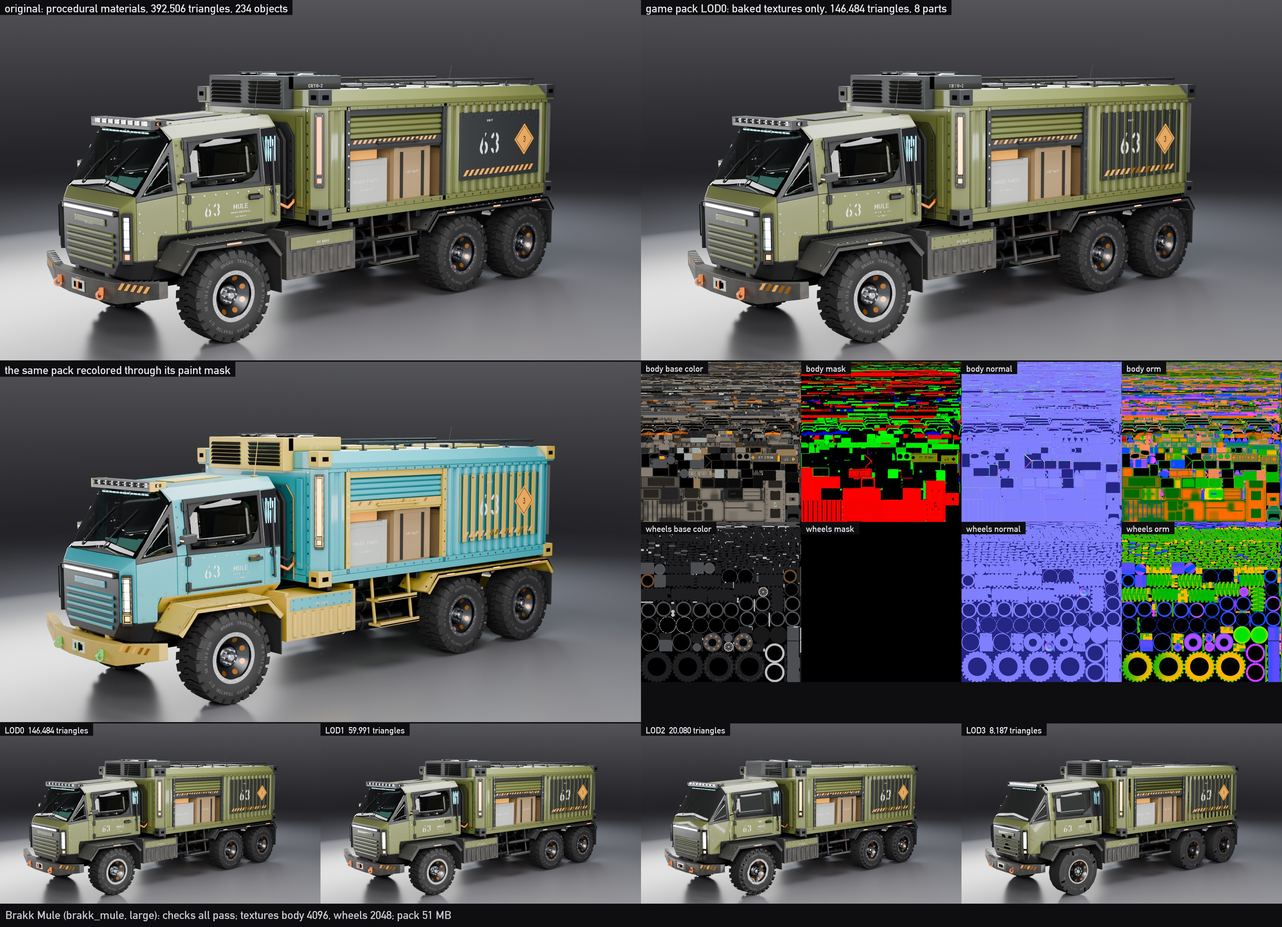
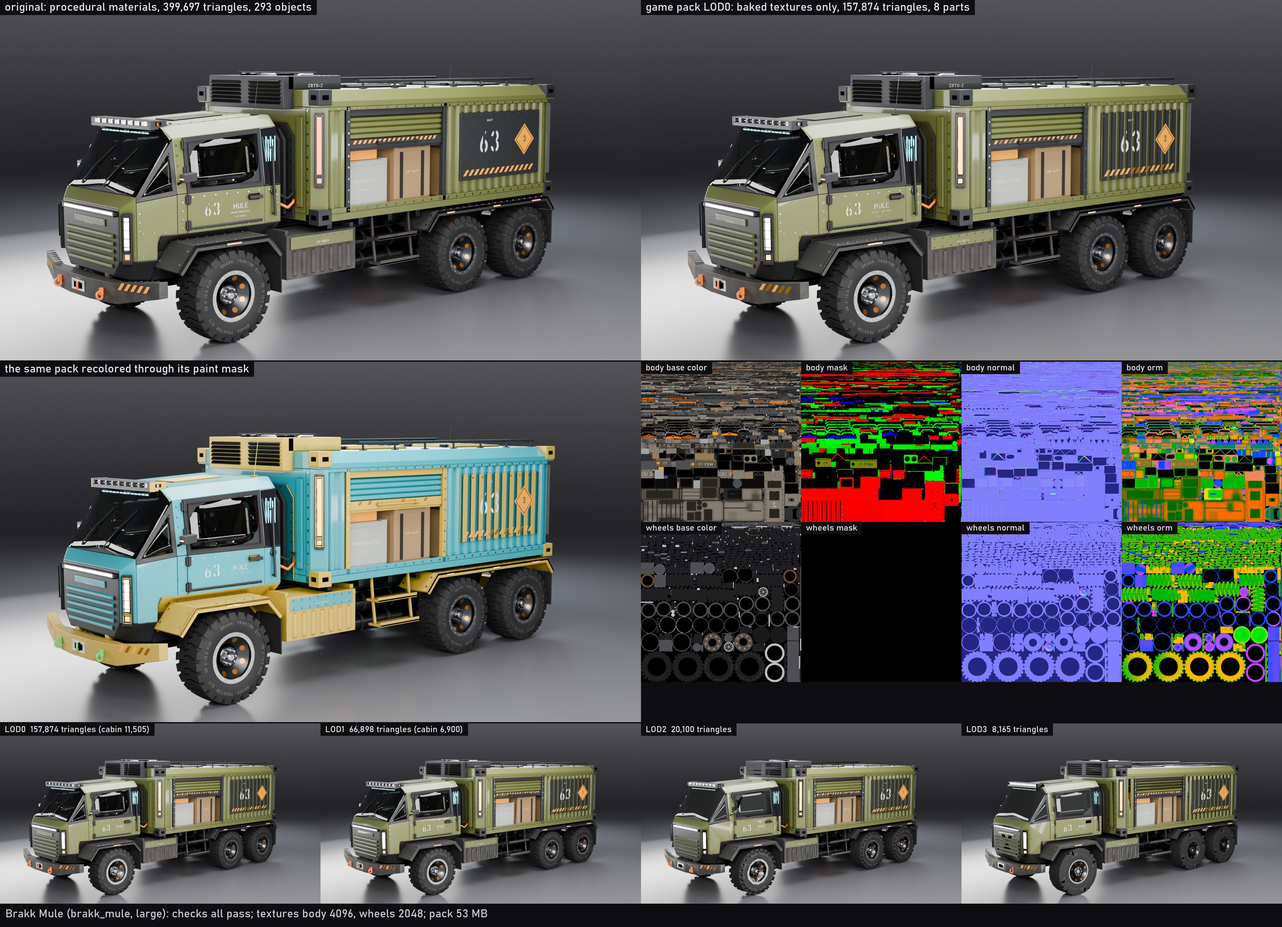
AG18: game packs with cabins: far LODs retried, large from 50 m2, cabin texels yield
- A far LOD over its budget by more than 10% is made again at a target scaled down by
  its overshoot, twice at most (the Orrin Lumen's LOD3 at 5,517 of 5,000; the Kestrel
  Meridian's 5,541 made again at 4,992); far LODs pass within 10%.
- The large class starts at 50 m2 of exterior (55 before): a cabin hides faces seen through
  the glass that counted as exterior, and the Brakk Bastion fell from 57.1 to 54.9 m2.
- A cabin's texel weight (0.7) comes down, never under 0.4, where it takes the exterior's
  5th percentile under the class floor plus 3%, and the body is unwrapped again (the
  Brakk Mule: 20.7 m2 of cabin took its exterior to 236.6 of 240 px/m; 242.1 now).
- The Brakk Mule's game pack rebuilt with its cabin (proof and report).

diff --git a/vehicles/game.py b/vehicles/game.py
@@ -53,7 +53,7 @@ T0 = time.time()
 LOD_TRIS = (150000, 60000, 20000, 5000)
 # the size class: a vehicle whose body has this much exterior (m2, after the unseen faces
 # are removed: trucks, vans, the hauler class) is large: a larger far LOD, a lower floor
-LARGE_EXTERIOR_M2 = 55.0
+LARGE_EXTERIOR_M2 = 50.0   # 55 until the cabins: the Bastion's fell to 54.9 m2 (57.1 before)
 LOD_TRIS_LARGE = (150000, 60000, 20000, 8000)
 # a cabin.py cabin's own allowance over those (the budgets above are the exterior's, wheels
 # and glass: measured without the cabin), LOD0 and LOD1; the cabin is left out from LOD2.
@@ -79,6 +79,8 @@ CLASS_NAMES = {0: "exterior", 1: "underside", 2: "cabin", 3: "lamp_in_gaps",  # 
                4: "rim_face"}                 # the far LODs' rim faces (rim_disc)
 CABIN_WEIGHT = 0.7              # the cabin class's weight on a car with a cabin.py cabin (seen
                                 # from the seat: at 0.4 it read soft, 170 to 200 px/m)
+CABIN_WEIGHT_MIN = 0.4          # ... lowered toward this where the exterior falls under its
+CABIN_REWEIGH = 3               # floor (unwrapped again up to this many times)
 CAGE_M, REACH_M = 0.015, 0.035  # baking the detail: cage out, ray reach under the surface
 TEXEL_FLOOR = {"body": 300.0, "wheels": 300.0}  # px/m on exterior faces at 4096 / 2048
 TEXEL_FLOOR_LARGE = {"body": 240.0, "wheels": 240.0}  # ... for the large class (never under 220)
@@ -2455,6 +2457,8 @@ LOD_WELD_FROM = 3                           # pieces welded where their vertices
 LOD_WELD_M = 0.0015
 LOD_LATHE_SEGS = 20
 LOD_WRECK_FROM = 3                          # wrecked pieces put right (stand_ins)
+LOD_OVER_TOL = 1.1                          # a far LOD over its budget by more (the check's
+LOD_SQUEEZE = 2                             # tolerance) made again at a lower target, this often
 LOD_WRECK_M = 0.01                          # ... off their shape by more than this
 LOD_WRECK_SHARE = 0.12                      # ... or this share of their size
 LOD_STANDIN_M = 0.6                         # ... a hull or gone up to this size
@@ -3688,6 +3692,7 @@ def make_lods(parts_final, budgets, coll, work=None, cabin=None):
                 k, {nm: len(v) for nm, v in unseen.items()}, time.time() - t1))
         hid = unseen or {}
         SMALL_SCALE[0] = 1.0
+        squeeze = 0
         while True:
             prep = {nm: lod_prep(o, k, nm in coarse, nm.startswith("wheel_"),
                                  unseen=hid.get(nm))
@@ -3828,6 +3833,19 @@ def make_lods(parts_final, budgets, coll, work=None, cabin=None):
                 log("  LOD%d starved (ratio %.3f): made again with the small parts left "
                     "out up to %g times the size" % (k, ratio, nxt))
                 SMALL_SCALE[0] = nxt
+                for o in objs_k:
+                    me = o.data
+                    bpy.data.objects.remove(o)
+                    bpy.data.meshes.remove(me)
+                continue
+            if k >= LOD_WRECK_FROM and cab is None and got > LOD_OVER_TOL * budget_k and                     squeeze < LOD_SQUEEZE:
+                # the wrecked pieces' stand-ins and the held box left the LOD over its
+                # budget: made again at a target lowered by the overshoot
+                squeeze += 1
+                nt = int(target * budget_k / got * 0.97)
+                log("  LOD%d over its budget (%d of %d): made again at target %d" % (
+                    k, got, budget_k, nt))
+                target = nt
                 for o in objs_k:
                     me = o.data
                     bpy.data.objects.remove(o)
@@ -4219,6 +4237,29 @@ def main_build(A):
             1000 * DETAIL_FINE_PX / floor_px, sorted({p.ob.name for p in fine})))
         uvinfo["body"] = unwrap(body, A.body_size, boost=marked, floor=floor_px,
                                 fine=detail_faces(body, fine))
+        # a cabin seen from the seat (CABIN_WEIGHT) takes texels from the exterior: where
+        # that leaves the exterior's 5th percentile under the class's floor (with
+        # DETAIL_MARGIN), the cabin's weight comes down by what gives them back (the
+        # weights' squares times the areas are the atlas's share), never under the
+        # weight of the cars before cabins, and the body is unwrapped again (the Brakk
+        # Mule: 20.7 m2 of cabin at 0.7 took its exterior from 243.8 to 236.6 px/m)
+        want = floors["body"] * A.body_size / 4096 * DETAIL_MARGIN
+        for _ in range(CABIN_REWEIGH):
+            st = texel_stats(body, A.body_size)
+            p5 = st.get("exterior", {}).get("p5")
+            cab_a = st.get("cabin", {}).get("area_m2", 0.0)
+            w = WEIGHT[2]
+            if not cabin_idx or not p5 or p5 >= want or cab_a <= 0 or w <= CABIN_WEIGHT_MIN:
+                break
+            S = sum(r["area_m2"] * WEIGHT.get(k, 1.0) ** 2 for k, r in (
+                (next((c for c, nm in CLASS_NAMES.items() if nm == name), None), r)
+                for name, r in st.items()) if k is not None)
+            w2 = w * w - S * (1 - (p5 / want) ** 2) / cab_a
+            WEIGHT[2] = max(CABIN_WEIGHT_MIN, sqrt(max(0.0, w2)) * 0.97)
+            log("the exterior at %.1f px/m is under %.1f with the cabin at %.2f: the cabin's "
+                "weight %.2f, unwrapped again" % (p5, want, w, WEIGHT[2]))
+            uvinfo["body"] = unwrap(body, A.body_size, boost=marked, floor=floor_px,
+                                    fine=detail_faces(body, fine))
         # (the detail boost keeps the standard floor's margin in every class: the large
         # class's lower floor is what the check asks, not room to spend on detail)
     if glass is not None:
@@ -5262,7 +5303,7 @@ def check(pack_dir, docs, seconds, stage_seconds):
         if g is None:
             continue
         n = sum(len(pr["idx"]) for nd in g.values() for pr in nd["prims"])
-        tol = 1.0 if r["lod"] == 0 else 1.1
+        tol = 1.0 if r["lod"] == 0 else LOD_OVER_TOL
         row = dict(lod=r["lod"], triangles=n, budget=r["budget"], ok=n <= r["budget"] * tol)
         if "cabin" in r:
             # a cabin.py cabin: the exterior (body, glass, wheels) and the cabin each

diff --git a/vehicles/GAME.md b/vehicles/GAME.md
@@ -227,7 +227,7 @@ Smart projection per slot (66 degrees; the islands that end up covering texels a
 island covers, over 0.1% of the atlas, as a lip curling under its frame does, are projected
 again at 34 degrees, those still lying over themselves once more at 20, then at 11, then at 6; what still does, layers that face one way and meet at a vertex, is laid flat face by face, each an island of its own), each island scaled to one texel density times its class's
 weight (exterior 1, cabin 0.4, 0.7 on a car with a `cabin.py` cabin, which is seen from
-the seat (at 0.4 it read soft, 170 to 200 px/m), underside 0.35, a lamp or a large face seen only in gaps 0.35, a rim face
+the seat (at 0.4 it read soft, 170 to 200 px/m; where it takes the exterior's 5th percentile under its class's floor and 3% more, the weight comes down by what gives those texels back, never under 0.4, and the body is unwrapped again: the Brakk Mule's 20.7 m2 of cabin), underside 0.35, a lamp or a large face seen only in gaps 0.35, a rim face
 0.5; on a vehicle with no wheels, which floats and sets down when parked, a face under 0.5 m
 that only rays going down leave is underside: no eye gets under it, and its belly's texels
 go to what is seen), then a skyline packer at the largest
@@ -251,13 +251,15 @@ it. Measured density (px/m, area weighted median and 5th percentile, per class) 
 
 ## Size class
 
-A vehicle whose body has 55 m2 of exterior or more (faces of class exterior after the
+A vehicle whose body has 50 m2 of exterior or more (faces of class exterior after the
 unseen ones are removed: trucks, vans, the hauler class) is **large**, else **standard**.
 The class sets the LOD budgets (LOD3 8,000 triangles large, 5,000 standard) and the texel
 floor of `texel_density` (large: 240 px/m, standard: 300 px/m; set so that the Mule, the
 largest, passes with a few percent to spare, and never under 220 px/m). The lower floor is
 what the check asks only: the unwrap's detail boost keeps the standard floor's margin in
-every class. `pack.json`'s `size_class` records the class, the exterior it was measured
+every class. The line was 55 m2 until the cabins: a cabin hides faces seen through the
+glass that had counted as exterior, and the Brakk Bastion fell from 57.1 to 54.9 m2; at 50
+the nearest cars stay clear of it (the Aurel Regent 48.5, the Bastion 54.9). `pack.json`'s `size_class` records the class, the exterior it was measured
 on, the rule, the budgets and the floor; the report and the proof's footer repeat them.
 
 ## LODs

diff --git a/vehicles/README.md b/vehicles/README.md
@@ -160,7 +160,8 @@ vehicles/blender.sh vehicles/game.py --car vanta_r --test           # 1024 / 512
   LOD is measured against LOD0 (normals, textures) and fails when crumpled. `--keep-work`
   then `--lods-only` remakes only the LODs in seconds.
 - **Cabins** (`cabin.py`'s `interior.*` objects). Faces seen only through the glass are the
-  cabin class (texels at 0.7 of the exterior's on a car with a cabin, 0.4 otherwise); the
+  cabin class (texels at 0.7 of the exterior's on a car with a cabin, less where the exterior would fall
+  under its floor, 0.4 otherwise); the
   cabin is in LOD0 and LOD1 and left out from LOD2, where the glass turns dark and opaque.
   It has a triangle budget of its own over the exterior's: 50,000 at LOD0, 10,000 at LOD1,
   measured apart (`pack.json`'s `lods[k].exterior` and `.cabin`). A cabin face no ray from outside
@@ -176,7 +177,7 @@ vehicles/blender.sh vehicles/game.py --car vanta_r --test           # 1024 / 512
   relief for it; within it, it is not collapsed
   at LOD0, and at LOD1 it is collapsed apart from the exterior. `--views cab_fwd,cab_in,cab_back` compares the pack from inside, in
   the cabin views' own light; `proof/lod1_<view>.jpg` shows LOD1 from there.
-- **Size class.** Large vehicles (55 m2 of body exterior or more: trucks, vans) get an
+- **Size class.** Large vehicles (50 m2 of body exterior or more: trucks, vans) get an
   8,000 triangle LOD3 (5,000 otherwise) and a lower texel floor.
 - **Shared wheels.** A wheel that is another one moved or mirrored shares its texels
   (never mirrored when lettering is baked onto it).

diff --git a/CLAUDE.md b/CLAUDE.md
@@ -2468,7 +2468,7 @@ waits for Swagnik's review.
   GitHub release of this repo (`vehicles/packs.py`: `fetch` on a machine without them, every
   file checked against the committed `vehicles/packs.json`; `publish` after rebuilding
   packs, committing `packs.json` in the same PR; `status`). Size classes standard
-  and large (55 m2 of exterior or more: LOD3 8,000 triangles, texel floor 240 px/m against
+  and large (50 m2 of exterior or more: LOD3 8,000 triangles, texel floor 240 px/m against
   5,000 and 300). Built for 18 vehicles, every check passing (the faults of the first run
   fixed in `game.py` and nine packs rebuilt, 2026-11-12; the other nine are as first built).
   A pack is the car parked and shut (`CYBERGEN_SHUT`, `SHUT_ENV` in `game.py`).
